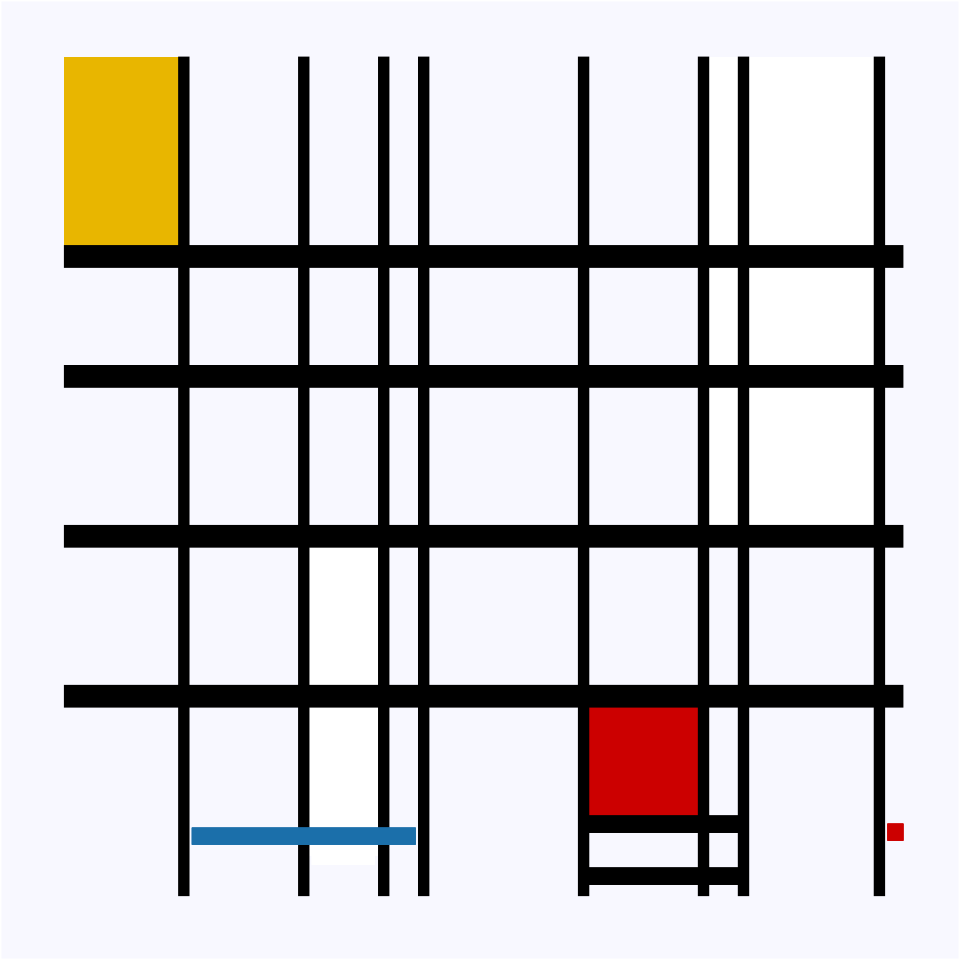
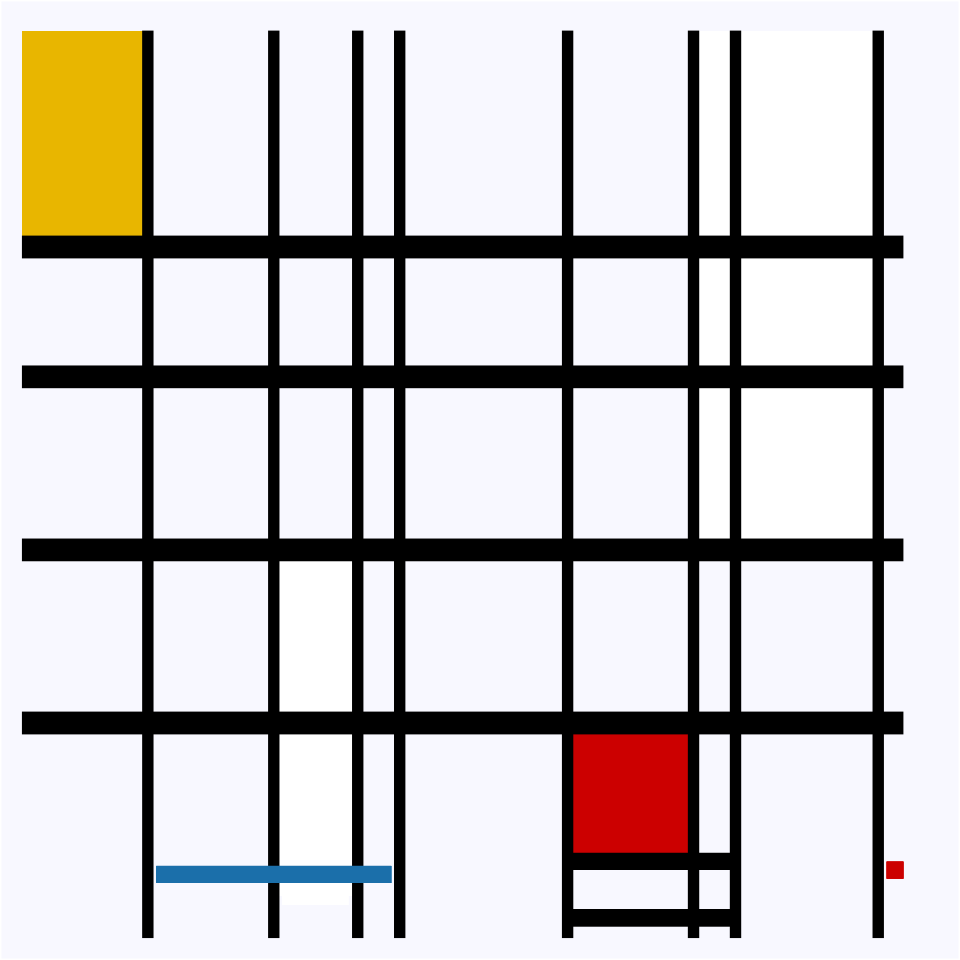
Made gray border a bit smaller, but its still there

Changed region(s): [[0.0, 0.0312, 0.9688, 1.0], [0.0, 0.375, 0.0938, 0.4062]]

diff --git a/tahsin.html b/tahsin.html
@@ -140,8 +140,9 @@ pre > code.sourceCode > span > a:first-child::before { text-decoration: underlin
 <span id="cb5-30"><a href="#cb5-30" aria-hidden="true" tabindex="-1"></a>  <span class="fu">geom_segment</span>(<span class="at">data=</span> horizontal_lines, <span class="fu">aes</span>(<span class="at">x=</span><span class="dv">6</span>, <span class="at">y=</span><span class="fl">0.4</span>, <span class="at">xend=</span><span class="dv">8</span>, <span class="at">yend=</span><span class="fl">0.4</span>), <span class="at">color =</span> <span class="st">"black"</span>, <span class="at">size =</span> <span class="dv">3</span>) <span class="sc">+</span></span>
 <span id="cb5-31"><a href="#cb5-31" aria-hidden="true" tabindex="-1"></a>  <span class="fu">geom_segment</span>(<span class="at">data=</span> horizontal_lines, <span class="fu">aes</span>(<span class="at">x=</span><span class="dv">6</span>, <span class="at">y=</span><span class="sc">-</span><span class="fl">0.25</span>, <span class="at">xend=</span><span class="dv">8</span>, <span class="at">yend=</span><span class="sc">-</span>.<span class="dv">25</span>), <span class="at">color =</span> <span class="st">"black"</span>, <span class="at">size =</span> <span class="dv">3</span>) <span class="sc">+</span></span>
 <span id="cb5-32"><a href="#cb5-32" aria-hidden="true" tabindex="-1"></a>  <span class="fu">geom_segment</span>(<span class="at">data=</span>horizontal_lines, <span class="fu">aes</span>(<span class="at">x=</span><span class="fl">9.8</span>, <span class="at">y=</span><span class="fl">0.3</span>, <span class="at">xend=</span><span class="dv">10</span>, <span class="at">yend=</span><span class="fl">0.3</span>), <span class="at">color=</span><span class="st">"#CC0000"</span>, <span class="at">size =</span> <span class="dv">3</span>) <span class="sc">+</span></span>
-<span id="cb5-33"><a href="#cb5-33" aria-hidden="true" tabindex="-1"></a>  <span class="fu">scale_fill_identity</span>() <span class="sc">+</span></span>
-<span id="cb5-34"><a href="#cb5-34" aria-hidden="true" tabindex="-1"></a>  <span class="fu">my_theme</span>()</span></code><button title="Copy to Clipboard" class="code-copy-button"><i class="bi"></i></button></pre></div>
+<span id="cb5-33"><a href="#cb5-33" aria-hidden="true" tabindex="-1"></a>  <span class="fu">coord_cartesian</span>(<span class="at">xlim =</span> <span class="fu">c</span>(<span class="dv">0</span>, <span class="dv">10</span>), <span class="at">ylim =</span> <span class="fu">c</span>(<span class="dv">0</span>, <span class="fl">9.7</span>)) <span class="sc">+</span></span>
+<span id="cb5-34"><a href="#cb5-34" aria-hidden="true" tabindex="-1"></a>  <span class="fu">scale_fill_identity</span>() <span class="sc">+</span></span>
+<span id="cb5-35"><a href="#cb5-35" aria-hidden="true" tabindex="-1"></a>  <span class="fu">my_theme</span>()</span></code><button title="Copy to Clipboard" class="code-copy-button"><i class="bi"></i></button></pre></div>
 <div class="cell-output-display">
 <div>
 <figure class="figure">
